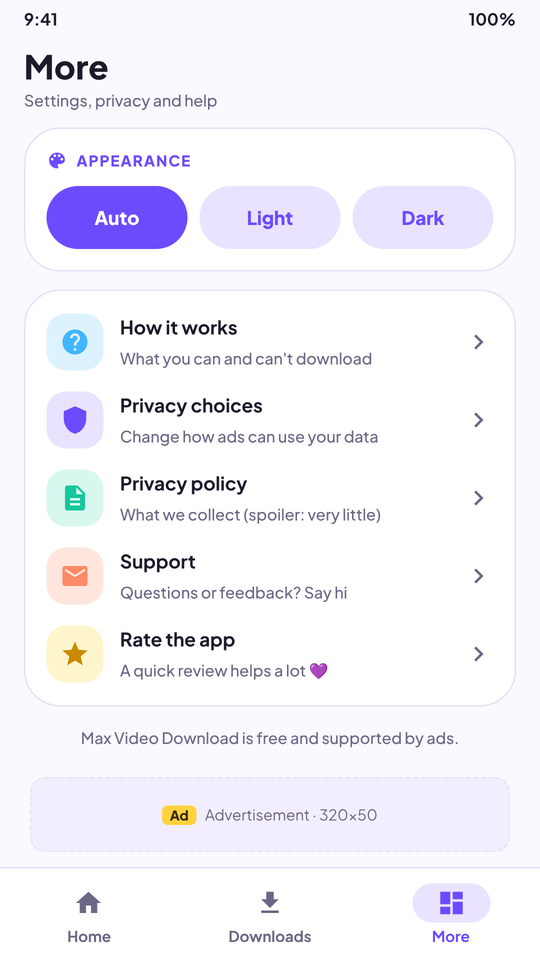
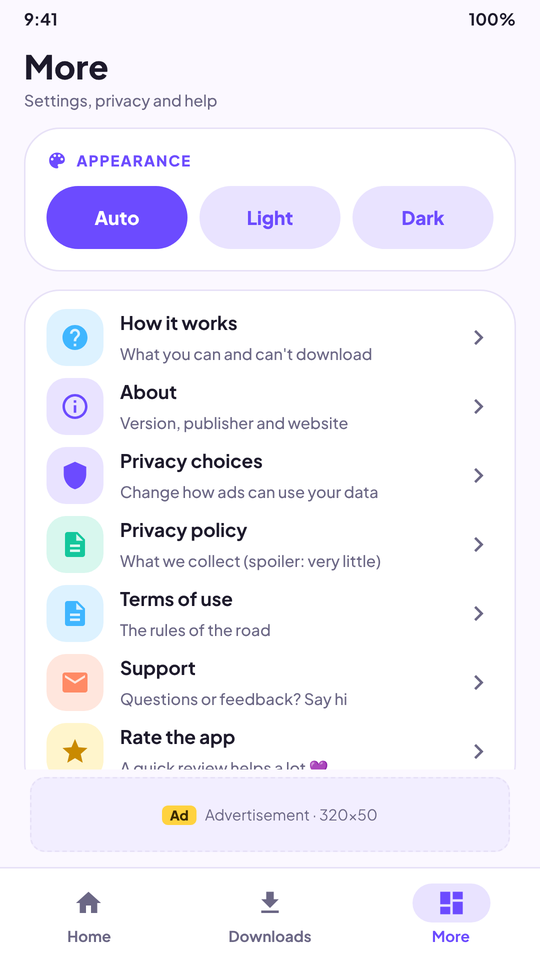
Rename Max Video Download to Max Video Downloader on site, refresh screenshots (#32)
Claude-Session: https://claude.ai/code/session_01BieiZ7YyXweUGJpXovGkh4

diff --git a/index.html b/index.html
@@ -120,7 +120,7 @@
         <a class="product-tile" href="max-fake-location/index.html"><img src="images/max-fake-location/app-icon.svg" width="64" height="64" alt="" /><span>Max Fake Location</span><span class="tile-arrow" aria-hidden="true">↗</span></a>
         <a class="product-tile" href="nightridge/index.html"><img src="images/nightridge_icon.png" width="64" height="64" alt="" /><span>Night Ridge</span><span class="tile-arrow" aria-hidden="true">↗</span></a>
         <a class="product-tile" href="max-cam-scanner/index.html"><img src="images/max-cam-scanner/app-icon.svg" width="64" height="64" alt="" /><span>Max Cam Scanner</span><span class="tile-arrow" aria-hidden="true">↗</span></a>
-        <a class="product-tile" href="max-video-downloader/index.html"><img src="images/max-video-downloader/app-icon.svg" width="64" height="64" alt="" /><span>Max Video Download</span><span class="tile-arrow" aria-hidden="true">↗</span></a>
+        <a class="product-tile" href="max-video-downloader/index.html"><img src="images/max-video-downloader/app-icon.svg" width="64" height="64" alt="" /><span>Max Video Downloader</span><span class="tile-arrow" aria-hidden="true">↗</span></a>
         <a class="product-tile" href="saldosehat/index.html"><img src="images/saldosehat/app-icon.svg" width="64" height="64" alt="" /><span>SaldoSehat</span><span class="tile-arrow" aria-hidden="true">↗</span></a>
         <a class="product-tile" href="pretio/index.html"><img src="images/pretio/app-icon.png" width="64" height="64" alt="" /><span>Pretio</span><span class="tile-arrow" aria-hidden="true">↗</span></a>
         </div>
@@ -261,7 +261,7 @@
           <article class="project-card">
             <div class="project-copy">
               <p class="project-meta">Coming soon · Android</p>
-              <h3>Max Video Download</h3>
+              <h3>Max Video Downloader</h3>
               <p class="product-subtitle">Save videos. Keep it simple.</p>
               <p class="project-description">Paste a link, check it, and download direct video files or public videos from Wikimedia Commons and the Internet Archive. No account, clear progress, and friendly messages if something goes wrong.</p>
               <div class="tag-row"><span>Android</span><span>Video downloads</span><span>Free with ads</span></div>
@@ -270,7 +270,7 @@
                 <a class="text-link" href="max-video-downloader/privacy.html">Privacy Policy <span aria-hidden="true">→</span></a>
               </div>
             </div>
-            <div class="project-media"><img src="images/max-video-downloader/app-icon.svg" width="160" height="160" loading="lazy" alt="Max Video Download icon" /></div>
+            <div class="project-media"><img src="images/max-video-downloader/app-icon.svg" width="160" height="160" loading="lazy" alt="Max Video Downloader icon" /></div>
           </article>
           <article class="project-card">
             <div class="project-copy">
@@ -312,7 +312,7 @@
           <h2>A question, an idea,<br />or <em>a little help?</em></h2>
           <p>We’d love to hear from you. Get in touch for questions,<br class="desktop-break" /> feedback, or support with any of our projects.</p>
           <a class="button primary" href="mailto:support@maxqstudio.dev">support@maxqstudio.dev <span aria-hidden="true">↗</span></a>
-          <div class="support-links" aria-label="Product support"><a href="pretio/support.html">Pretio</a><a href="saldosehat/support.html">SaldoSehat</a><a href="max-cam-scanner/support.html">Max Cam Scanner</a><a href="max-video-downloader/support.html">Max Video Download</a><a href="nightridge/support.html">Night Ridge</a><a href="argh/support.html">Argh!</a><a href="blendin/support.html">Blend In!</a></div>
+          <div class="support-links" aria-label="Product support"><a href="pretio/support.html">Pretio</a><a href="saldosehat/support.html">SaldoSehat</a><a href="max-cam-scanner/support.html">Max Cam Scanner</a><a href="max-video-downloader/support.html">Max Video Downloader</a><a href="nightridge/support.html">Night Ridge</a><a href="argh/support.html">Argh!</a><a href="blendin/support.html">Blend In!</a></div>
         </div>
       </div>
     </section>

diff --git a/max-video-downloader/privacy.html b/max-video-downloader/privacy.html
@@ -3,8 +3,8 @@
 <head>
   <meta charset="UTF-8" />
   <meta name="viewport" content="width=device-width, initial-scale=1.0" />
-  <title>Privacy Policy · Max Video Download</title>
-  <meta name="description" content="Max Video Download privacy policy: local history, Google AdMob, consent choices." />
+  <title>Privacy Policy · Max Video Downloader</title>
+  <meta name="description" content="Max Video Downloader privacy policy: local history, Google AdMob, consent choices." />
   <meta name="theme-color" content="#6C4BFF" />
   <link rel="icon" href="../images/max-video-downloader/favicon.png" />
   <link rel="apple-touch-icon" href="../images/max-video-downloader/icon.png" />
@@ -14,8 +14,8 @@
 <body>
   <header class="app-header">
     <div class="container header-inner">
-      <a class="brand" href="index.html"><img src="../images/max-video-downloader/icon.png" width="38" height="38" alt="" /><span>Max Video Download</span></a>
-      <nav class="nav" aria-label="Max Video Download pages">
+      <a class="brand" href="index.html"><img src="../images/max-video-downloader/icon.png" width="38" height="38" alt="" /><span>Max Video Downloader</span></a>
+      <nav class="nav" aria-label="Max Video Downloader pages">
         <a href="../index.html">Max-Q</a>
         <a href="index.html">About</a>
         <a href="privacy.html" aria-current="page">Privacy</a>
@@ -28,15 +28,15 @@
   <main class="legal-page">
     <article class="container legal-card">
       <h1>Privacy Policy</h1>
-      <p class="meta">Max Video Download for Android (com.maxq.videodownloader) · Effective November 14, 2026</p>
+      <p class="meta">Max Video Downloader for Android (com.maxq.videodownloader) · Effective November 14, 2026</p>
 
       <div class="summary">
         <h3>In short</h3>
-        <p>Max Video Download has no account and no server of its own. Your download history stays on your device. The app is free and shows Google AdMob ads, which collect data as described below.</p>
+        <p>Max Video Downloader has no account and no server of its own. Your download history stays on your device. The app is free and shows Google AdMob ads, which collect data as described below.</p>
       </div>
 
       <h2>1. Who we are</h2>
-      <p>Max Video Download is published by Max-Q Studio. Contact: <a href="mailto:support@maxqstudio.dev">support@maxqstudio.dev</a>.</p>
+      <p>Max Video Downloader is published by Max-Q Studio. Contact: <a href="mailto:support@maxqstudio.dev">support@maxqstudio.dev</a>.</p>
 
       <h2>2. Data stored on your device</h2>
       <p>The app saves, in its private storage, your theme choice and a list of recent downloads (Android download IDs, file names and the link used, so a failed download can be retried). This data is not sent to Max-Q Studio. Device backup of app data is turned off. Uninstalling the app or clearing its storage deletes it. Downloaded videos are saved in your Downloads folder and are yours to manage.</p>
@@ -59,7 +59,7 @@
       <p>The app uses Google's User Messaging Platform to ask for advertising consent where the law requires it, for example in the EEA, UK and some US states. When required, a Privacy choices entry appears under More so you can change your choice. You can also reset or delete your advertising ID in Android settings.</p>
 
       <h2>7. Children</h2>
-      <p>Max Video Download is not directed to children under 13 (or the age of digital consent in your country) and we do not knowingly collect their data.</p>
+      <p>Max Video Downloader is not directed to children under 13 (or the age of digital consent in your country) and we do not knowingly collect their data.</p>
 
       <h2>8. Changes</h2>
       <p>If this policy changes, we will update the date above. Questions: <a href="mailto:support@maxqstudio.dev">support@maxqstudio.dev</a>.</p>

diff --git a/max-video-downloader/index.html b/max-video-downloader/index.html
@@ -3,8 +3,8 @@
 <head>
   <meta charset="UTF-8" />
   <meta name="viewport" content="width=device-width, initial-scale=1.0" />
-  <title>Max Video Download · Save videos you have the right to keep</title>
-  <meta name="description" content="Max Video Download is a friendly Android app for saving direct video files and public videos from Wikimedia Commons and the Internet Archive. Free, no account." />
+  <title>Max Video Downloader · Save videos you have the right to keep</title>
+  <meta name="description" content="Max Video Downloader is a friendly Android app for saving direct video files and public videos from Wikimedia Commons and the Internet Archive. Free, no account." />
   <meta name="theme-color" content="#6C4BFF" />
   <link rel="icon" href="../images/max-video-downloader/favicon.png" />
   <link rel="apple-touch-icon" href="../images/max-video-downloader/icon.png" />
@@ -14,8 +14,8 @@
 <body>
   <header class="app-header">
     <div class="container header-inner">
-      <a class="brand" href="index.html"><img src="../images/max-video-downloader/icon.png" width="38" height="38" alt="" /><span>Max Video Download</span></a>
-      <nav class="nav" aria-label="Max Video Download pages">
+      <a class="brand" href="index.html"><img src="../images/max-video-downloader/icon.png" width="38" height="38" alt="" /><span>Max Video Downloader</span></a>
+      <nav class="nav" aria-label="Max Video Downloader pages">
         <a href="../index.html">Max-Q</a>
         <a href="index.html" aria-current="page">About</a>
         <a href="privacy.html">Privacy</a>
@@ -31,7 +31,7 @@
         <div>
           <span class="pill">Android · Free with ads</span>
           <h1>Save videos. <em>Keep it simple.</em></h1>
-          <p class="lead">Paste a link, check it, download it. Max Video Download saves direct video files and public videos from Wikimedia Commons and the Internet Archive, straight to your Downloads folder.</p>
+          <p class="lead">Paste a link, check it, download it. Max Video Downloader saves direct video files and public videos from Wikimedia Commons and the Internet Archive, straight to your Downloads folder.</p>
           <div class="actions">
             <a class="button primary" href="#features">See what it does</a>
             <a class="button secondary" href="support.html">Contact us</a>
@@ -41,7 +41,7 @@
         <div class="hero-art">
           <span class="blob" style="width:260px;height:260px;background:#FFD23F55;left:6%;top:-30px"></span>
           <span class="blob" style="width:120px;height:120px;background:#14C79C55;right:8%;bottom:-20px"></span>
-          <img src="../images/max-video-downloader/shot-2-ready.png" width="540" height="960" alt="Max Video Download after checking a link: a green confirmation and a Download button" />
+          <img src="../images/max-video-downloader/shot-2-ready.png" width="540" height="960" alt="Max Video Downloader after checking a link: a green confirmation and a Download button" />
         </div>
       </div>
     </section>

diff --git a/max-video-downloader/support.html b/max-video-downloader/support.html
@@ -3,8 +3,8 @@
 <head>
   <meta charset="UTF-8" />
   <meta name="viewport" content="width=device-width, initial-scale=1.0" />
-  <title>Support · Max Video Download</title>
-  <meta name="description" content="Help and contact for Max Video Download." />
+  <title>Support · Max Video Downloader</title>
+  <meta name="description" content="Help and contact for Max Video Downloader." />
   <meta name="theme-color" content="#6C4BFF" />
   <link rel="icon" href="../images/max-video-downloader/favicon.png" />
   <link rel="apple-touch-icon" href="../images/max-video-downloader/icon.png" />
@@ -14,8 +14,8 @@
 <body>
   <header class="app-header">
     <div class="container header-inner">
-      <a class="brand" href="index.html"><img src="../images/max-video-downloader/icon.png" width="38" height="38" alt="" /><span>Max Video Download</span></a>
-      <nav class="nav" aria-label="Max Video Download pages">
+      <a class="brand" href="index.html"><img src="../images/max-video-downloader/icon.png" width="38" height="38" alt="" /><span>Max Video Downloader</span></a>
+      <nav class="nav" aria-label="Max Video Downloader pages">
         <a href="../index.html">Max-Q</a>
         <a href="index.html">About</a>
         <a href="privacy.html">Privacy</a>
@@ -28,14 +28,14 @@
   <main class="legal-page">
     <article class="container legal-card">
       <h1>Support</h1>
-      <p class="meta">Max Video Download for Android (com.maxq.videodownloader)</p>
+      <p class="meta">Max Video Downloader for Android (com.maxq.videodownloader)</p>
       <p>Questions, bugs or ideas? Email <a href="mailto:support@maxqstudio.dev">support@maxqstudio.dev</a>. Please include your Android version, phone model and, if it helps, the kind of link you tried (you don't need to share the link itself).</p>
 
       <h2>A download failed</h2>
       <p>The Downloads tab explains why. Common reasons: no internet, not enough storage, or the server stopped the download because the link expired or is private. Tap <strong>Retry</strong> to try again.</p>
 
       <h2>Which links work?</h2>
-      <p>HTTPS links to direct video files (MP4, WebM, MOV, M4V, OGV), Wikimedia Commons file pages and Internet Archive item pages. Links from YouTube, TikTok, Instagram, Facebook, X, Vimeo and Dailymotion open in their official apps; Max Video Download does not extract those videos.</p>
+      <p>HTTPS links to direct video files (MP4, WebM, MOV, M4V, OGV), Wikimedia Commons file pages and Internet Archive item pages. Links from YouTube, TikTok, Instagram, Facebook, X, Vimeo and Dailymotion open in their official apps; Max Video Downloader does not extract those videos.</p>
 
       <h2>Where are my videos?</h2>
       <p>In your phone's Downloads folder, named starting with <code>MaxVD_</code>.</p>

diff --git a/max-video-downloader/terms.html b/max-video-downloader/terms.html
@@ -3,8 +3,8 @@
 <head>
   <meta charset="UTF-8" />
   <meta name="viewport" content="width=device-width, initial-scale=1.0" />
-  <title>Terms of Use · Max Video Download</title>
-  <meta name="description" content="Terms of use for Max Video Download." />
+  <title>Terms of Use · Max Video Downloader</title>
+  <meta name="description" content="Terms of use for Max Video Downloader." />
   <meta name="theme-color" content="#6C4BFF" />
   <link rel="icon" href="../images/max-video-downloader/favicon.png" />
   <link rel="apple-touch-icon" href="../images/max-video-downloader/icon.png" />
@@ -14,8 +14,8 @@
 <body>
   <header class="app-header">
     <div class="container header-inner">
-      <a class="brand" href="index.html"><img src="../images/max-video-downloader/icon.png" width="38" height="38" alt="" /><span>Max Video Download</span></a>
-      <nav class="nav" aria-label="Max Video Download pages">
+      <a class="brand" href="index.html"><img src="../images/max-video-downloader/icon.png" width="38" height="38" alt="" /><span>Max Video Downloader</span></a>
+      <nav class="nav" aria-label="Max Video Downloader pages">
         <a href="../index.html">Max-Q</a>
         <a href="index.html">About</a>
         <a href="privacy.html">Privacy</a>
@@ -28,10 +28,10 @@
   <main class="legal-page">
     <article class="container legal-card">
       <h1>Terms of Use</h1>
-      <p class="meta">Max Video Download for Android (com.maxq.videodownloader) · Effective November 14, 2026</p>
+      <p class="meta">Max Video Downloader for Android (com.maxq.videodownloader) · Effective November 14, 2026</p>
 
       <h2>1. Using the app</h2>
-      <p>Max Video Download helps you save video files from links you provide. You may download only content you own, content you have permission to save, or content whose license allows it. A public link or a checked box in the app does not by itself give you the right to copy a video.</p>
+      <p>Max Video Downloader helps you save video files from links you provide. You may download only content you own, content you have permission to save, or content whose license allows it. A public link or a checked box in the app does not by itself give you the right to copy a video.</p>
 
       <h2>2. What the app will not do</h2>
       <p>The app does not extract streams from YouTube, TikTok, Instagram, Facebook, X, Vimeo, Dailymotion or similar platforms, does not bypass DRM, logins, rate limits or other access controls, and does not support unauthorized access. Those links open in the platform's official app.</p>
